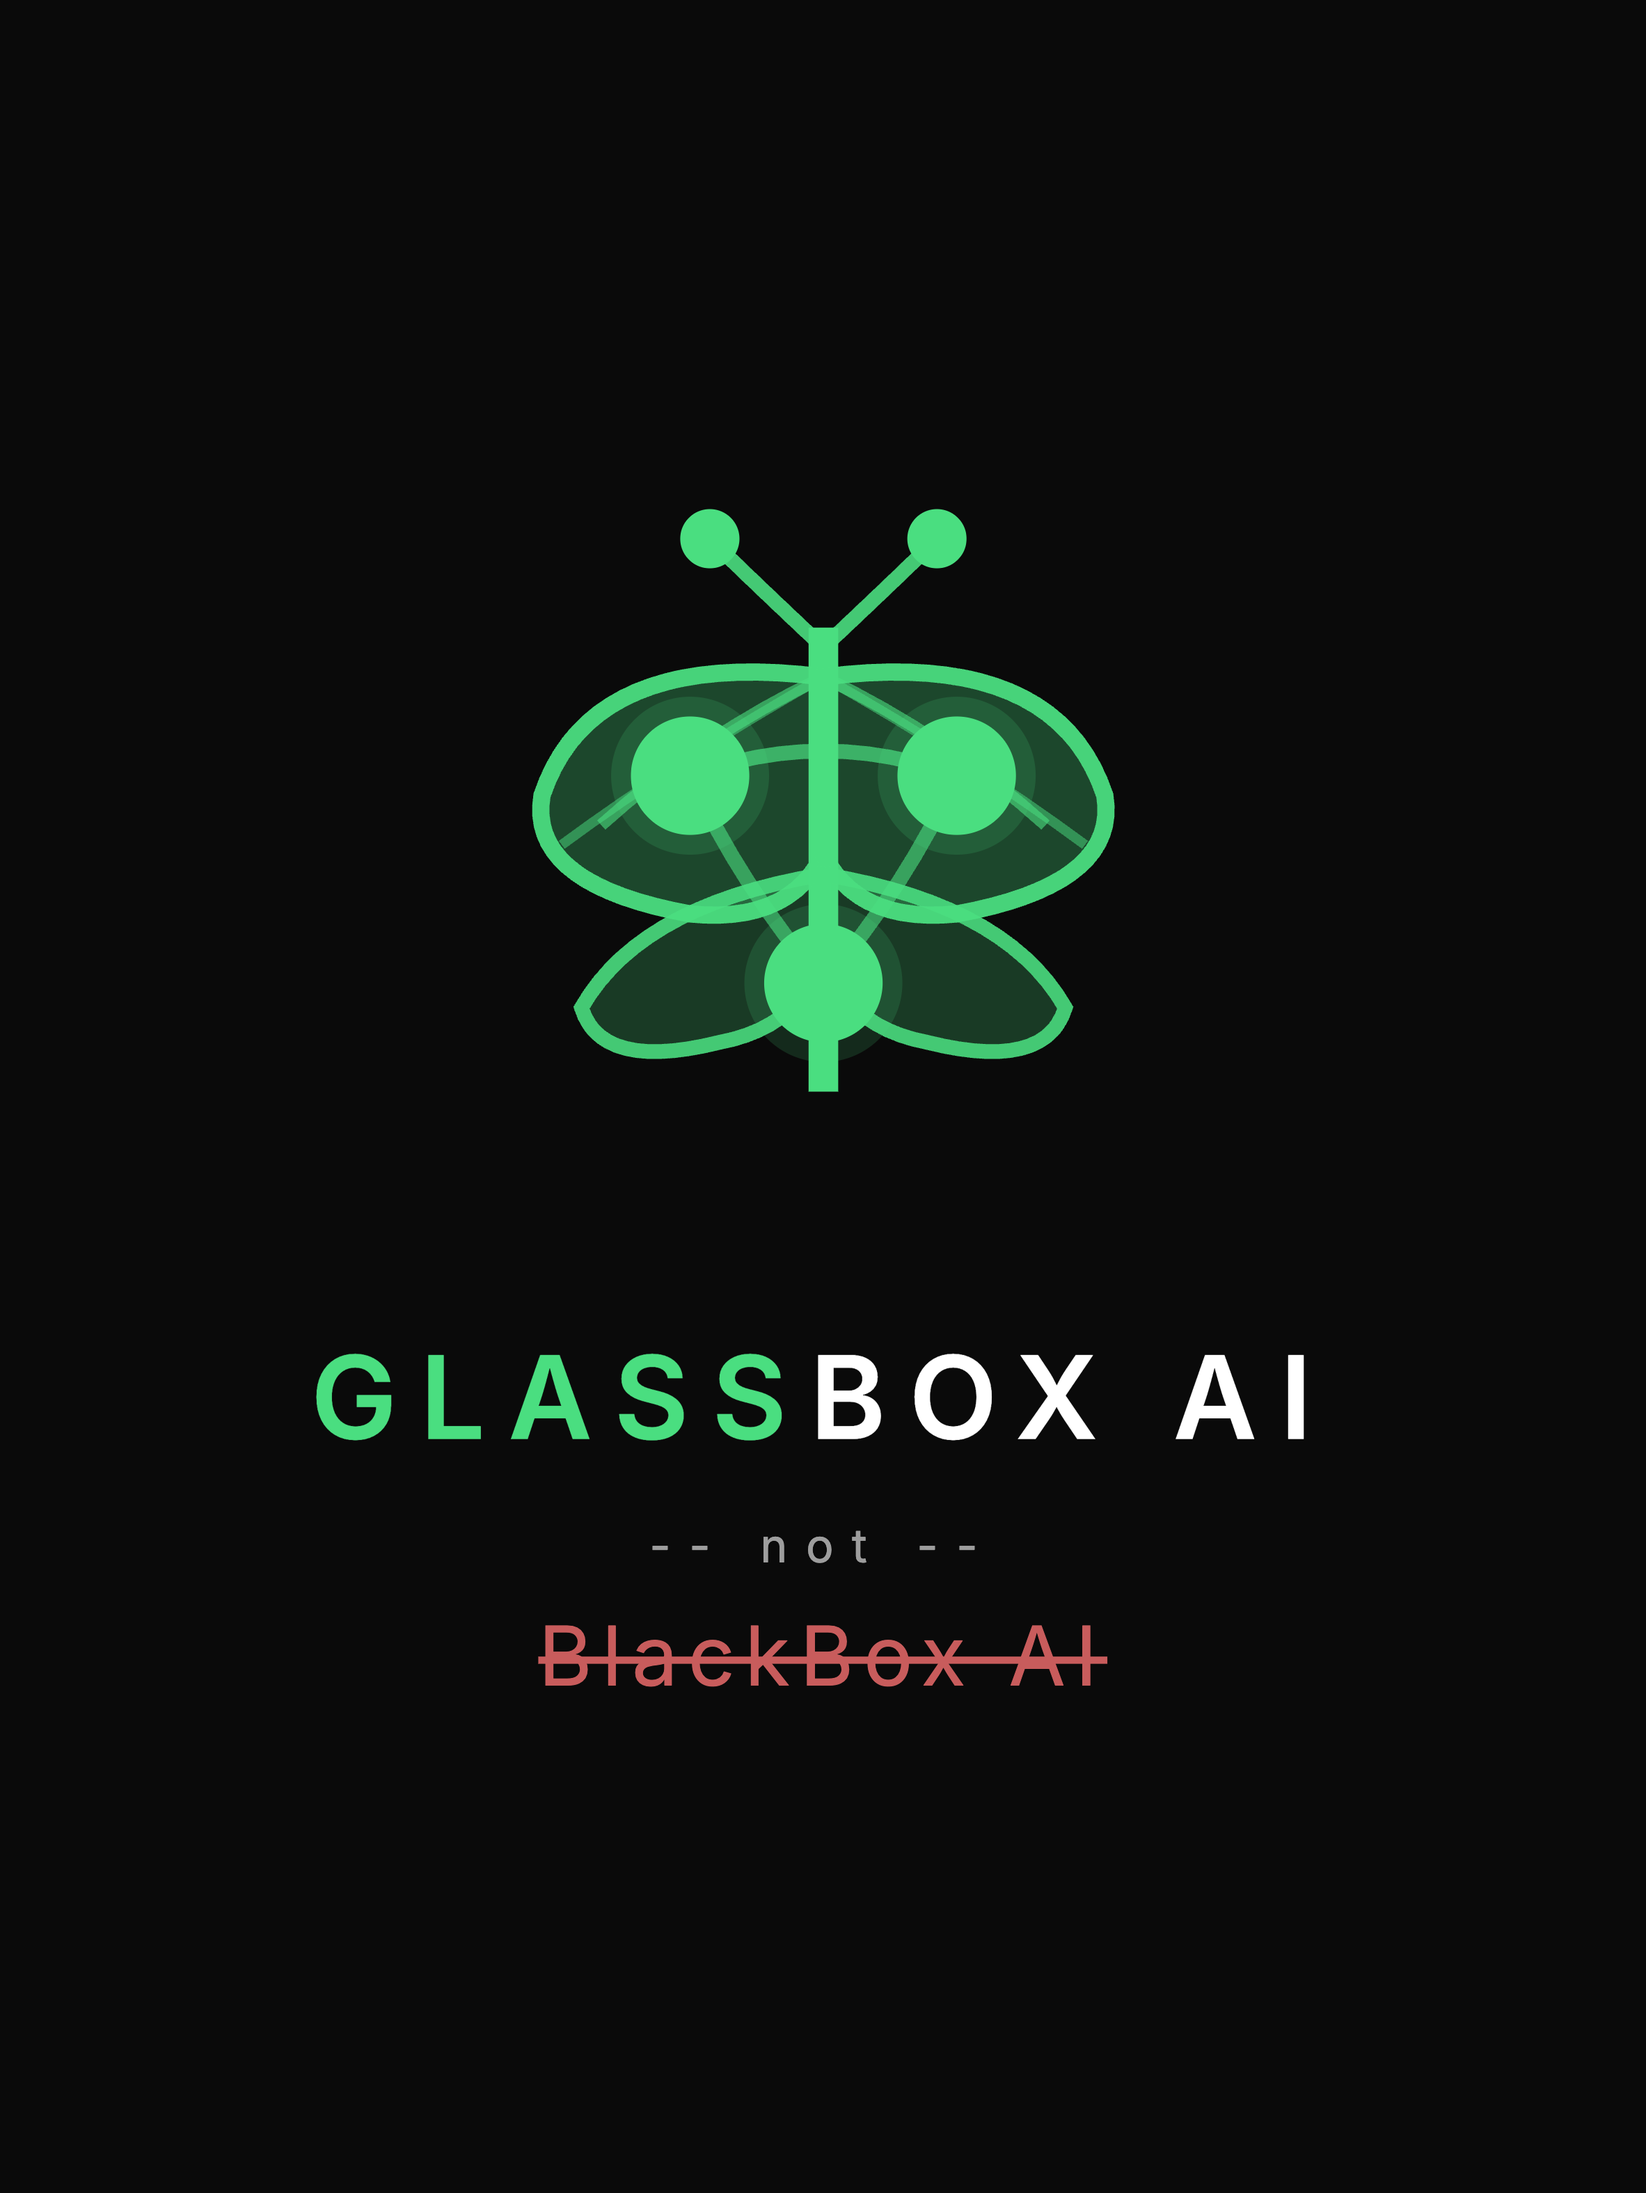
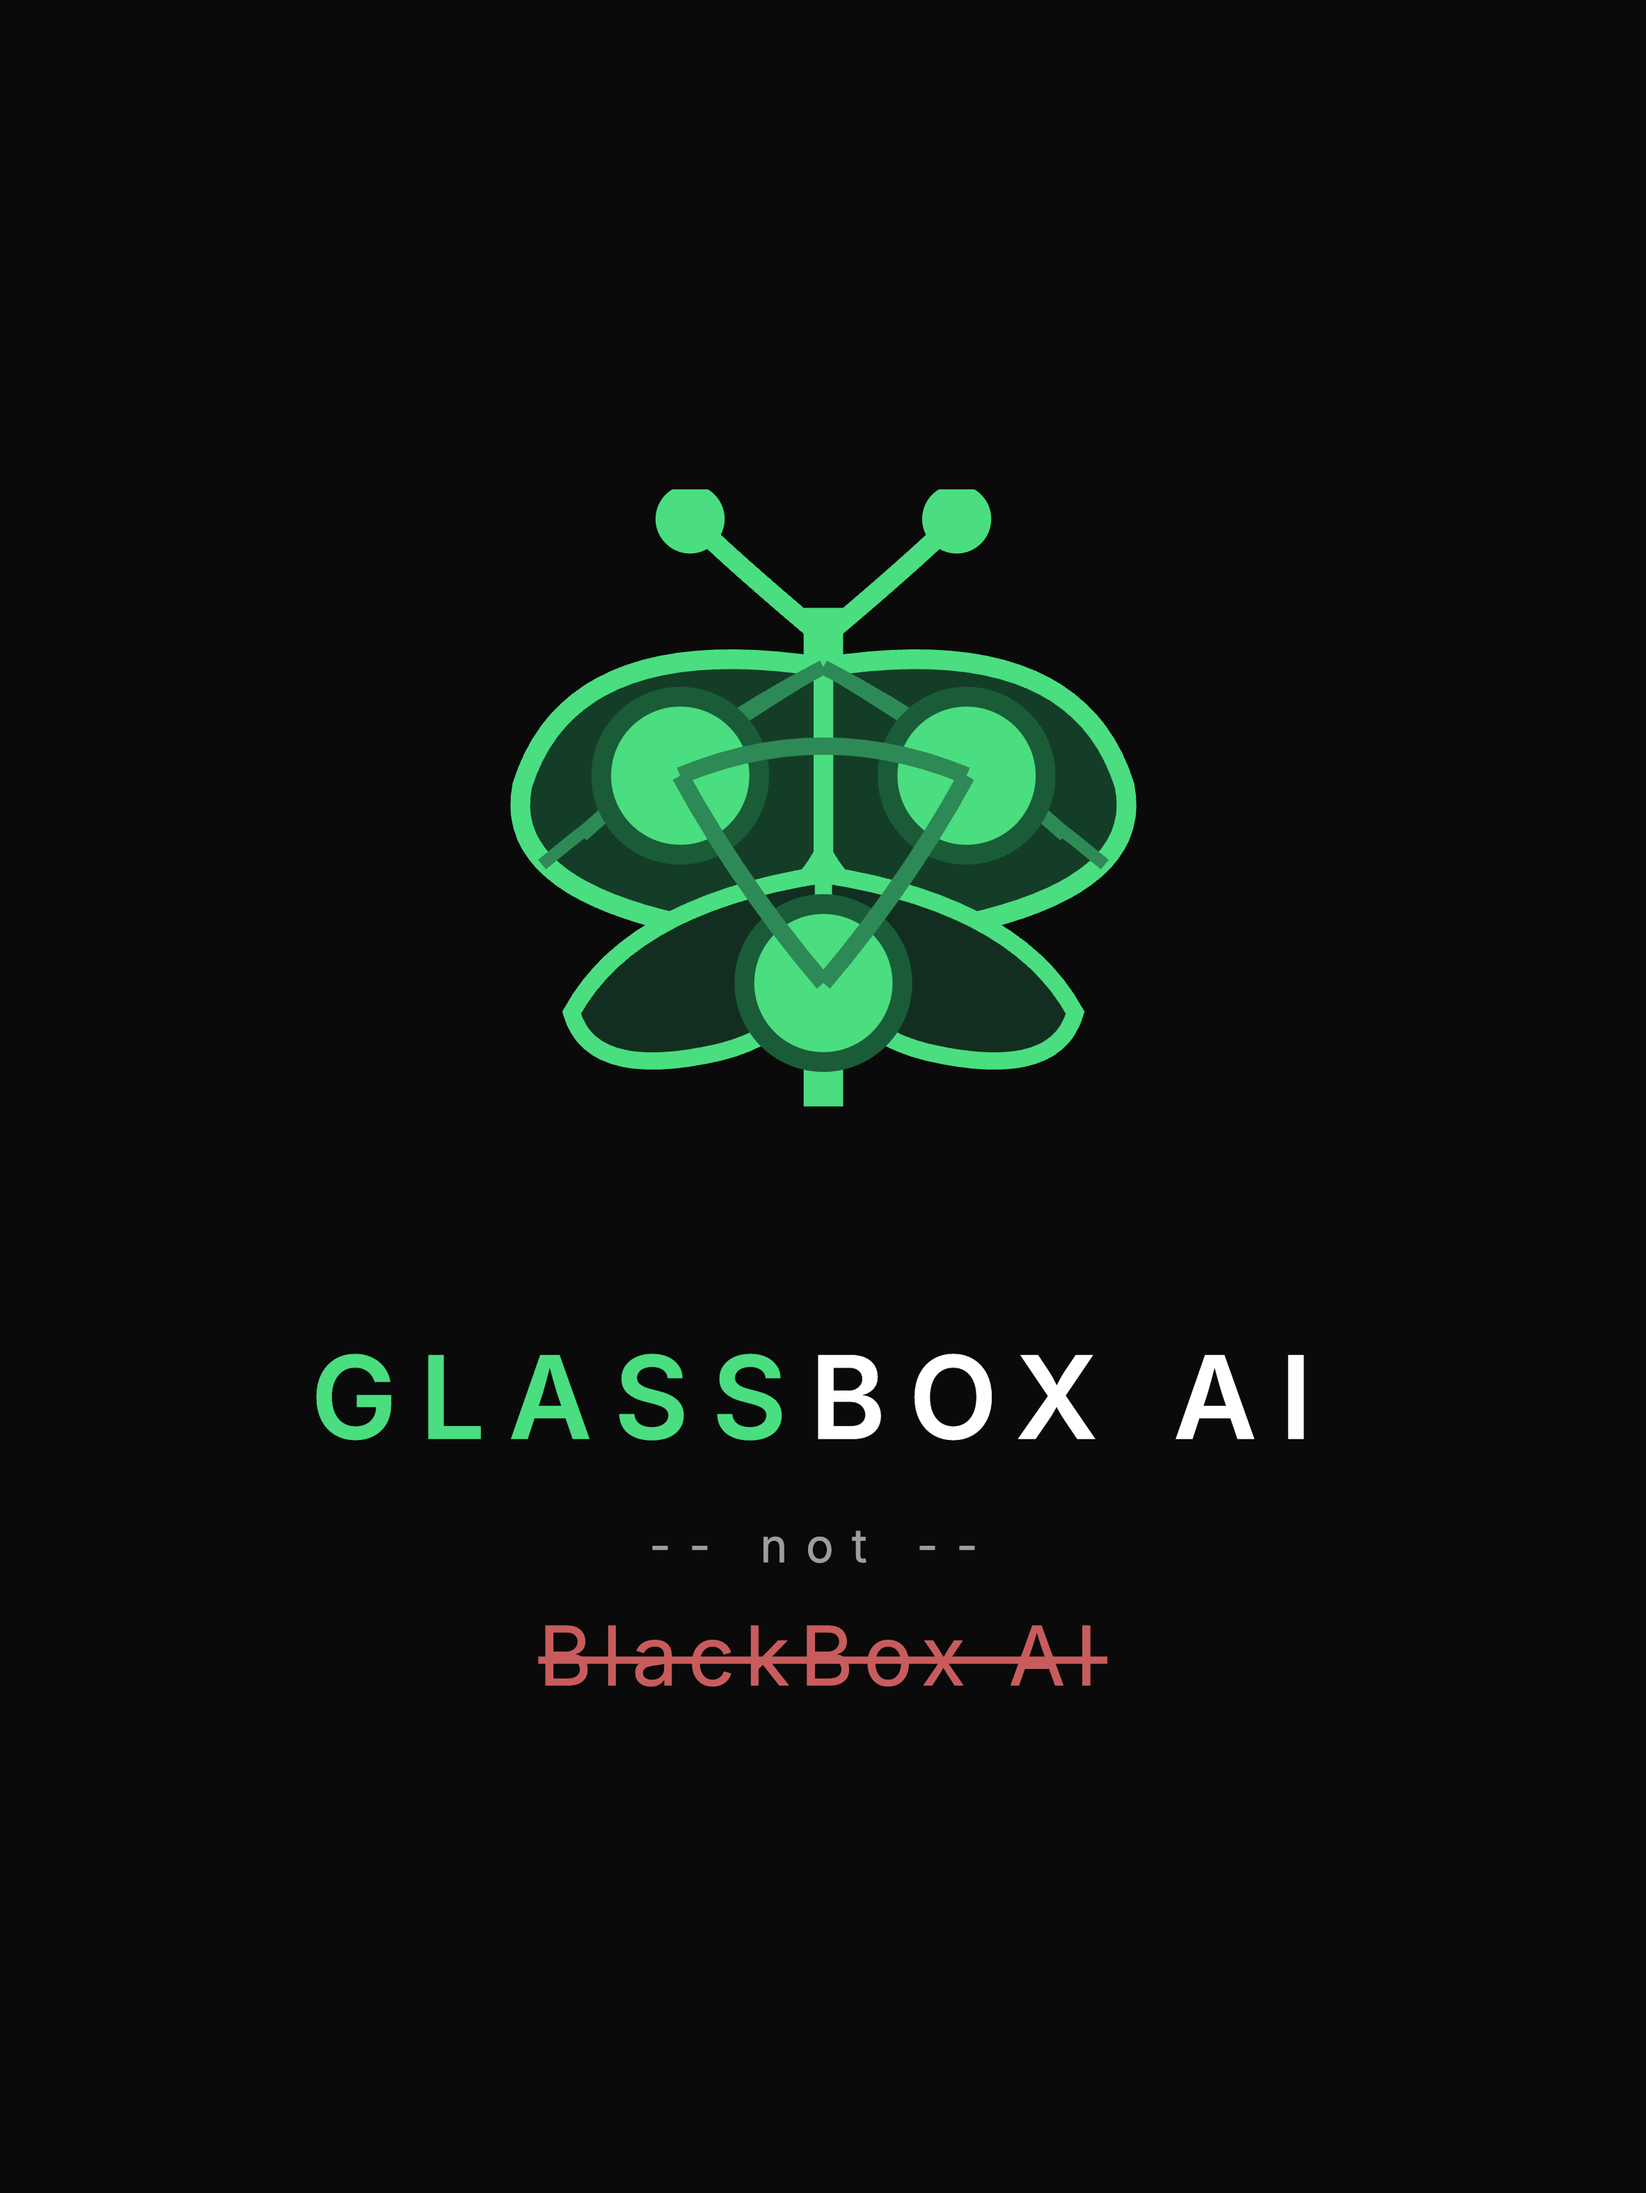
fix: fully solid SVG - zero opacity/rgba for guaranteed DTG print (memorabilia)
Previous version still used opacity and rgba which DTG printers can't reproduce reliably.

Changed region(s): [[0.3087, 0.2177, 0.7099, 0.5287]]

diff --git a/memorabilia/export-patches.js b/memorabilia/export-patches.js
@@ -88,40 +88,38 @@ function getFrontPatchHTML() {
 <div class="front-patch">
   <div class="glassbox-icon">
     <svg width="45vw" height="45vw" viewBox="0 0 150 150" fill="none">
-      <defs>
-        <!-- No blur filter - solid shapes only for DTG/screen print -->
-      </defs>
-      <!-- Body (central axis - thick for print) -->
-      <line x1="75" y1="28" x2="75" y2="122" stroke="#4ade80" stroke-width="6" opacity="1"/>
-      <!-- Antennae (thicker lines, bigger tips) -->
-      <path d="M75 32 Q58 16 52 10" fill="none" stroke="#4ade80" stroke-width="3" opacity="0.9"/>
-      <circle cx="52" cy="10" r="6" fill="#4ade80" opacity="1"/>
-      <path d="M75 32 Q92 16 98 10" fill="none" stroke="#4ade80" stroke-width="3" opacity="0.9"/>
-      <circle cx="98" cy="10" r="6" fill="#4ade80" opacity="1"/>
-      <!-- Left upper wing (solid outline, visible fill) -->
-      <path d="M75 38 Q28 32 18 62 Q15 80 48 86 Q68 88 75 74 Z" fill="rgba(74,222,128,0.3)" stroke="#4ade80" stroke-width="3.5" opacity="0.95"/>
+      <!-- ALL SOLID COLORS - zero opacity, zero rgba - DTG print safe -->
+      <!-- Body (central axis) -->
+      <line x1="75" y1="24" x2="75" y2="125" stroke="#4ade80" stroke-width="8"/>
+      <!-- Antennae -->
+      <path d="M75 30 Q56 14 48 6" fill="none" stroke="#4ade80" stroke-width="4"/>
+      <circle cx="48" cy="6" r="7" fill="#4ade80"/>
+      <path d="M75 30 Q94 14 102 6" fill="none" stroke="#4ade80" stroke-width="4"/>
+      <circle cx="102" cy="6" r="7" fill="#4ade80"/>
+      <!-- Left upper wing -->
+      <path d="M75 36 Q24 28 14 60 Q10 80 46 88 Q66 90 75 74 Z" fill="#143d28" stroke="#4ade80" stroke-width="4"/>
       <!-- Right upper wing -->
-      <path d="M75 38 Q122 32 132 62 Q135 80 102 86 Q82 88 75 74 Z" fill="rgba(74,222,128,0.3)" stroke="#4ade80" stroke-width="3.5" opacity="0.95"/>
+      <path d="M75 36 Q126 28 136 60 Q140 80 104 88 Q84 90 75 74 Z" fill="#143d28" stroke="#4ade80" stroke-width="4"/>
       <!-- Left lower wing -->
-      <path d="M75 78 Q38 84 26 105 Q30 118 54 112 Q70 109 75 95 Z" fill="rgba(74,222,128,0.25)" stroke="#4ade80" stroke-width="3" opacity="0.9"/>
+      <path d="M75 78 Q36 84 24 106 Q28 120 54 114 Q70 110 75 96 Z" fill="#122e20" stroke="#4ade80" stroke-width="3.5"/>
       <!-- Right lower wing -->
-      <path d="M75 78 Q112 84 124 105 Q120 118 96 112 Q80 109 75 95 Z" fill="rgba(74,222,128,0.25)" stroke="#4ade80" stroke-width="3" opacity="0.9"/>
-      <!-- Wing vein structure (print-safe thickness) -->
-      <path d="M75 38 Q50 50 30 68" fill="none" stroke="#4ade80" stroke-width="2.5" opacity="0.6"/>
-      <path d="M75 38 Q45 55 22 72" fill="none" stroke="#4ade80" stroke-width="2" opacity="0.5"/>
-      <path d="M75 38 Q100 50 120 68" fill="none" stroke="#4ade80" stroke-width="2.5" opacity="0.6"/>
-      <path d="M75 38 Q105 55 128 72" fill="none" stroke="#4ade80" stroke-width="2" opacity="0.5"/>
-      <!-- Agent nodes (large, solid, no blur - with outer ring for glow effect) -->
-      <circle cx="48" cy="58" r="16" fill="rgba(74,222,128,0.15)" />
-      <circle cx="48" cy="58" r="12" fill="#4ade80" opacity="1"/>
-      <circle cx="102" cy="58" r="16" fill="rgba(74,222,128,0.15)" />
-      <circle cx="102" cy="58" r="12" fill="#4ade80" opacity="1"/>
-      <circle cx="75" cy="100" r="16" fill="rgba(74,222,128,0.15)" />
-      <circle cx="75" cy="100" r="12" fill="#4ade80" opacity="1"/>
-      <!-- Agent connections (print-safe) -->
-      <path d="M48 58 Q75 48 102 58" fill="none" stroke="#4ade80" stroke-width="3" opacity="0.7"/>
-      <path d="M48 58 Q58 80 75 100" fill="none" stroke="#4ade80" stroke-width="3" opacity="0.6"/>
-      <path d="M102 58 Q92 80 75 100" fill="none" stroke="#4ade80" stroke-width="3" opacity="0.6"/>
+      <path d="M75 78 Q114 84 126 106 Q122 120 96 114 Q80 110 75 96 Z" fill="#122e20" stroke="#4ade80" stroke-width="3.5"/>
+      <!-- Wing veins -->
+      <path d="M75 36 Q48 50 26 70" fill="none" stroke="#2d8a56" stroke-width="3"/>
+      <path d="M75 36 Q42 56 18 76" fill="none" stroke="#2d8a56" stroke-width="2.5"/>
+      <path d="M75 36 Q102 50 124 70" fill="none" stroke="#2d8a56" stroke-width="3"/>
+      <path d="M75 36 Q108 56 132 76" fill="none" stroke="#2d8a56" stroke-width="2.5"/>
+      <!-- Agent nodes (LARGE, SOLID) -->
+      <circle cx="46" cy="58" r="18" fill="#1a5c38"/>
+      <circle cx="46" cy="58" r="14" fill="#4ade80"/>
+      <circle cx="104" cy="58" r="18" fill="#1a5c38"/>
+      <circle cx="104" cy="58" r="14" fill="#4ade80"/>
+      <circle cx="75" cy="100" r="18" fill="#1a5c38"/>
+      <circle cx="75" cy="100" r="14" fill="#4ade80"/>
+      <!-- Agent connections -->
+      <path d="M46 58 Q75 46 104 58" fill="none" stroke="#2d8a56" stroke-width="3.5"/>
+      <path d="M46 58 Q58 80 75 100" fill="none" stroke="#2d8a56" stroke-width="3.5"/>
+      <path d="M104 58 Q92 80 75 100" fill="none" stroke="#2d8a56" stroke-width="3.5"/>
     </svg>
   </div>
   <div class="f-brand">

diff --git a/memorabilia/tshirt/design-v7-patches.html b/memorabilia/tshirt/design-v7-patches.html
@@ -226,37 +226,29 @@
 
       <div class="glassbox-icon">
         <svg width="140" height="140" viewBox="0 0 150 150" fill="none">
-          <!-- Body (central axis - thick for print) -->
-          <line x1="75" y1="28" x2="75" y2="122" stroke="#4ade80" stroke-width="6" opacity="1"/>
-          <!-- Antennae (thicker lines, bigger tips) -->
-          <path d="M75 32 Q58 16 52 10" fill="none" stroke="#4ade80" stroke-width="3" opacity="0.9"/>
-          <circle cx="52" cy="10" r="6" fill="#4ade80" opacity="1"/>
-          <path d="M75 32 Q92 16 98 10" fill="none" stroke="#4ade80" stroke-width="3" opacity="0.9"/>
-          <circle cx="98" cy="10" r="6" fill="#4ade80" opacity="1"/>
-          <!-- Left upper wing (solid outline, visible fill) -->
-          <path d="M75 38 Q28 32 18 62 Q15 80 48 86 Q68 88 75 74 Z" fill="rgba(74,222,128,0.3)" stroke="#4ade80" stroke-width="3.5" opacity="0.95"/>
-          <!-- Right upper wing -->
-          <path d="M75 38 Q122 32 132 62 Q135 80 102 86 Q82 88 75 74 Z" fill="rgba(74,222,128,0.3)" stroke="#4ade80" stroke-width="3.5" opacity="0.95"/>
-          <!-- Left lower wing -->
-          <path d="M75 78 Q38 84 26 105 Q30 118 54 112 Q70 109 75 95 Z" fill="rgba(74,222,128,0.25)" stroke="#4ade80" stroke-width="3" opacity="0.9"/>
-          <!-- Right lower wing -->
-          <path d="M75 78 Q112 84 124 105 Q120 118 96 112 Q80 109 75 95 Z" fill="rgba(74,222,128,0.25)" stroke="#4ade80" stroke-width="3" opacity="0.9"/>
-          <!-- Wing vein structure (print-safe) -->
-          <path d="M75 38 Q50 50 30 68" fill="none" stroke="#4ade80" stroke-width="2.5" opacity="0.6"/>
-          <path d="M75 38 Q45 55 22 72" fill="none" stroke="#4ade80" stroke-width="2" opacity="0.5"/>
-          <path d="M75 38 Q100 50 120 68" fill="none" stroke="#4ade80" stroke-width="2.5" opacity="0.6"/>
-          <path d="M75 38 Q105 55 128 72" fill="none" stroke="#4ade80" stroke-width="2" opacity="0.5"/>
-          <!-- Agent nodes (large, solid, outer ring for glow) -->
-          <circle cx="48" cy="58" r="16" fill="rgba(74,222,128,0.15)"/>
-          <circle cx="48" cy="58" r="12" fill="#4ade80" opacity="1"/>
-          <circle cx="102" cy="58" r="16" fill="rgba(74,222,128,0.15)"/>
-          <circle cx="102" cy="58" r="12" fill="#4ade80" opacity="1"/>
-          <circle cx="75" cy="100" r="16" fill="rgba(74,222,128,0.15)"/>
-          <circle cx="75" cy="100" r="12" fill="#4ade80" opacity="1"/>
-          <!-- Agent connections (print-safe) -->
-          <path d="M48 58 Q75 48 102 58" fill="none" stroke="#4ade80" stroke-width="3" opacity="0.7"/>
-          <path d="M48 58 Q58 80 75 100" fill="none" stroke="#4ade80" stroke-width="3" opacity="0.6"/>
-          <path d="M102 58 Q92 80 75 100" fill="none" stroke="#4ade80" stroke-width="3" opacity="0.6"/>
+          <!-- ALL SOLID COLORS - zero opacity, zero rgba -->
+          <line x1="75" y1="24" x2="75" y2="125" stroke="#4ade80" stroke-width="8"/>
+          <path d="M75 30 Q56 14 48 6" fill="none" stroke="#4ade80" stroke-width="4"/>
+          <circle cx="48" cy="6" r="7" fill="#4ade80"/>
+          <path d="M75 30 Q94 14 102 6" fill="none" stroke="#4ade80" stroke-width="4"/>
+          <circle cx="102" cy="6" r="7" fill="#4ade80"/>
+          <path d="M75 36 Q24 28 14 60 Q10 80 46 88 Q66 90 75 74 Z" fill="#143d28" stroke="#4ade80" stroke-width="4"/>
+          <path d="M75 36 Q126 28 136 60 Q140 80 104 88 Q84 90 75 74 Z" fill="#143d28" stroke="#4ade80" stroke-width="4"/>
+          <path d="M75 78 Q36 84 24 106 Q28 120 54 114 Q70 110 75 96 Z" fill="#122e20" stroke="#4ade80" stroke-width="3.5"/>
+          <path d="M75 78 Q114 84 126 106 Q122 120 96 114 Q80 110 75 96 Z" fill="#122e20" stroke="#4ade80" stroke-width="3.5"/>
+          <path d="M75 36 Q48 50 26 70" fill="none" stroke="#2d8a56" stroke-width="3"/>
+          <path d="M75 36 Q42 56 18 76" fill="none" stroke="#2d8a56" stroke-width="2.5"/>
+          <path d="M75 36 Q102 50 124 70" fill="none" stroke="#2d8a56" stroke-width="3"/>
+          <path d="M75 36 Q108 56 132 76" fill="none" stroke="#2d8a56" stroke-width="2.5"/>
+          <circle cx="46" cy="58" r="18" fill="#1a5c38"/>
+          <circle cx="46" cy="58" r="14" fill="#4ade80"/>
+          <circle cx="104" cy="58" r="18" fill="#1a5c38"/>
+          <circle cx="104" cy="58" r="14" fill="#4ade80"/>
+          <circle cx="75" cy="100" r="18" fill="#1a5c38"/>
+          <circle cx="75" cy="100" r="14" fill="#4ade80"/>
+          <path d="M46 58 Q75 46 104 58" fill="none" stroke="#2d8a56" stroke-width="3.5"/>
+          <path d="M46 58 Q58 80 75 100" fill="none" stroke="#2d8a56" stroke-width="3.5"/>
+          <path d="M104 58 Q92 80 75 100" fill="none" stroke="#2d8a56" stroke-width="3.5"/>
         </svg>
       </div>
 
